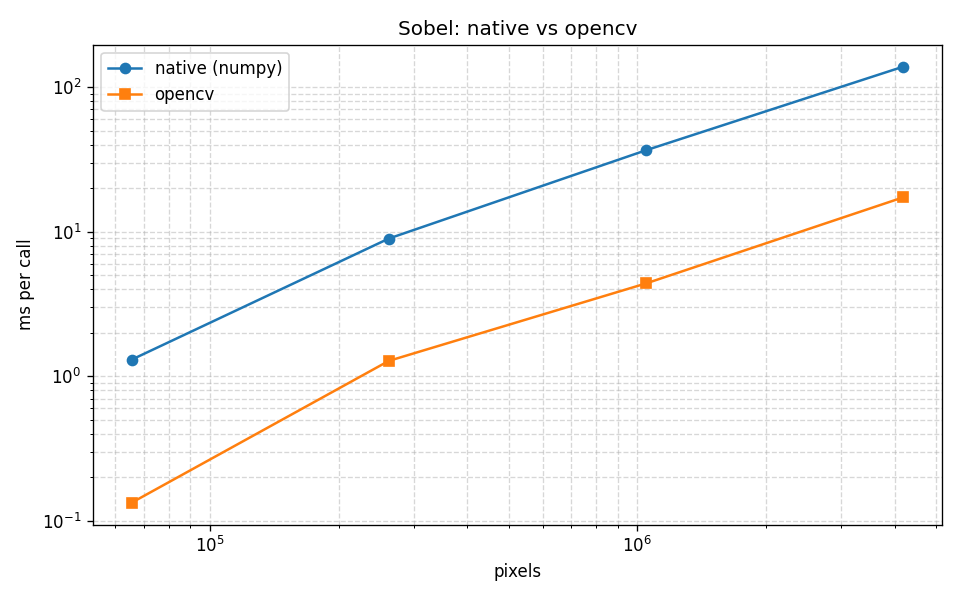
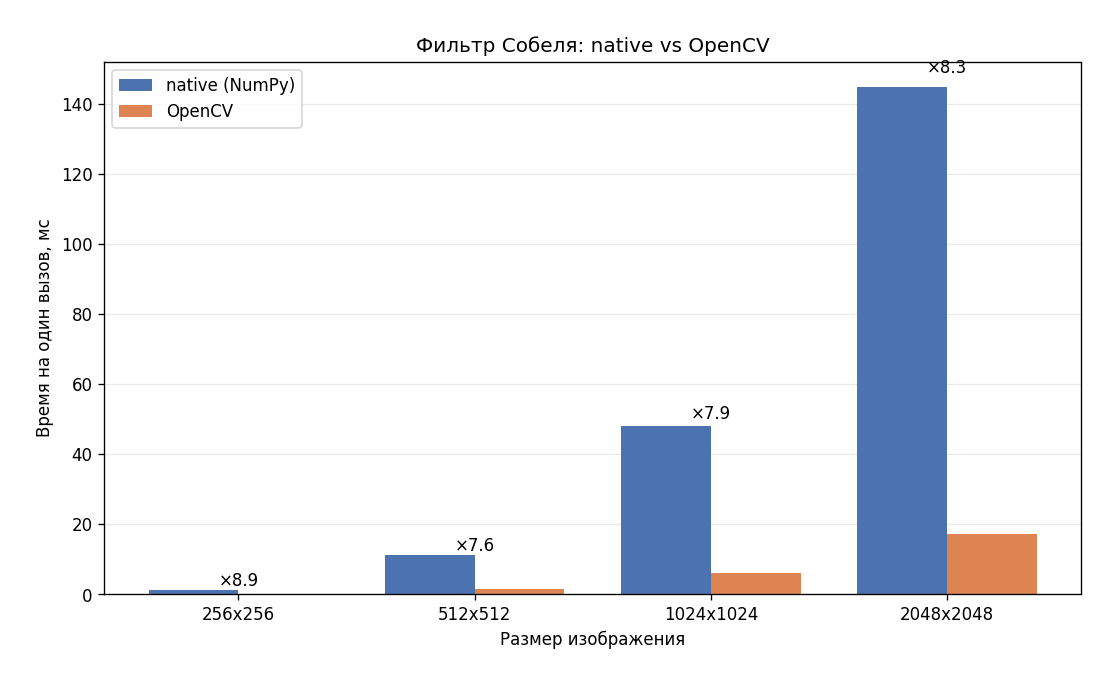
plots: linear-scale bar chart for benchmark, fix title clipping in comparison

diff --git a/src/main.py b/src/main.py
@@ -38,17 +38,17 @@ def quality(img):
 
 
 def save_comparison(img, native, opencv, out):
-    fig, ax = plt.subplots(1, 3, figsize=(15, 5))
+    fig, ax = plt.subplots(1, 3, figsize=(15, 5.4))
     ax[0].imshow(cv2.cvtColor(img, cv2.COLOR_BGR2RGB))
-    ax[0].set_title("Original")
+    ax[0].set_title("Оригинал", fontsize=13, pad=10)
     ax[1].imshow(native, cmap="gray", vmin=0, vmax=255)
-    ax[1].set_title("Sobel native")
+    ax[1].set_title("Sobel — native (NumPy)", fontsize=13, pad=10)
     ax[2].imshow(opencv, cmap="gray", vmin=0, vmax=255)
-    ax[2].set_title("Sobel OpenCV")
+    ax[2].set_title("Sobel — OpenCV", fontsize=13, pad=10)
     for a in ax:
         a.axis("off")
     fig.tight_layout()
-    fig.savefig(out, dpi=120)
+    fig.savefig(out, dpi=120, bbox_inches="tight", pad_inches=0.3)
     plt.close(fig)
 
 
@@ -77,18 +77,30 @@ def run_bench(img, sizes, out_csv):
 
 
 def plot_bench(df, out):
-    fig, ax = plt.subplots(figsize=(8, 5))
-    ax.plot(df["pixels"], df["native_mean_ms"], marker="o", label="native (numpy)")
-    ax.plot(df["pixels"], df["opencv_mean_ms"], marker="s", label="opencv")
-    ax.set_xlabel("pixels")
-    ax.set_ylabel("ms per call")
-    ax.set_xscale("log")
-    ax.set_yscale("log")
-    ax.set_title("Sobel: native vs opencv")
-    ax.grid(True, which="both", ls="--", alpha=0.5)
-    ax.legend()
+    labels = df["size"].tolist()
+    x = np.arange(len(labels))
+    w = 0.38
+    nat = df["native_mean_ms"].to_numpy()
+    ocl = df["opencv_mean_ms"].to_numpy()
+    spd = df["speedup_x"].to_numpy()
+
+    fig, ax = plt.subplots(figsize=(9, 5.4))
+    ax.bar(x - w / 2, nat, width=w, label="native (NumPy)", color="#4C72B0")
+    ax.bar(x + w / 2, ocl, width=w, label="OpenCV", color="#DD8452")
+    ax.set_xticks(x)
+    ax.set_xticklabels(labels)
+    ax.set_xlabel("Размер изображения")
+    ax.set_ylabel("Время на один вызов, мс")
+    ax.set_title("Фильтр Собеля: native vs OpenCV")
+    ax.grid(True, axis="y", linestyle="-", alpha=0.25)
+    ax.set_axisbelow(True)
+    ax.legend(loc="upper left")
+
+    for i, (n, o, s) in enumerate(zip(nat, ocl, spd)):
+        ax.text(x[i], max(n, o) * 1.02, f"×{s:.1f}", ha="center", va="bottom", fontsize=10)
+
     fig.tight_layout()
-    fig.savefig(out, dpi=120)
+    fig.savefig(out, dpi=120, bbox_inches="tight", pad_inches=0.3)
     plt.close(fig)
 
 
